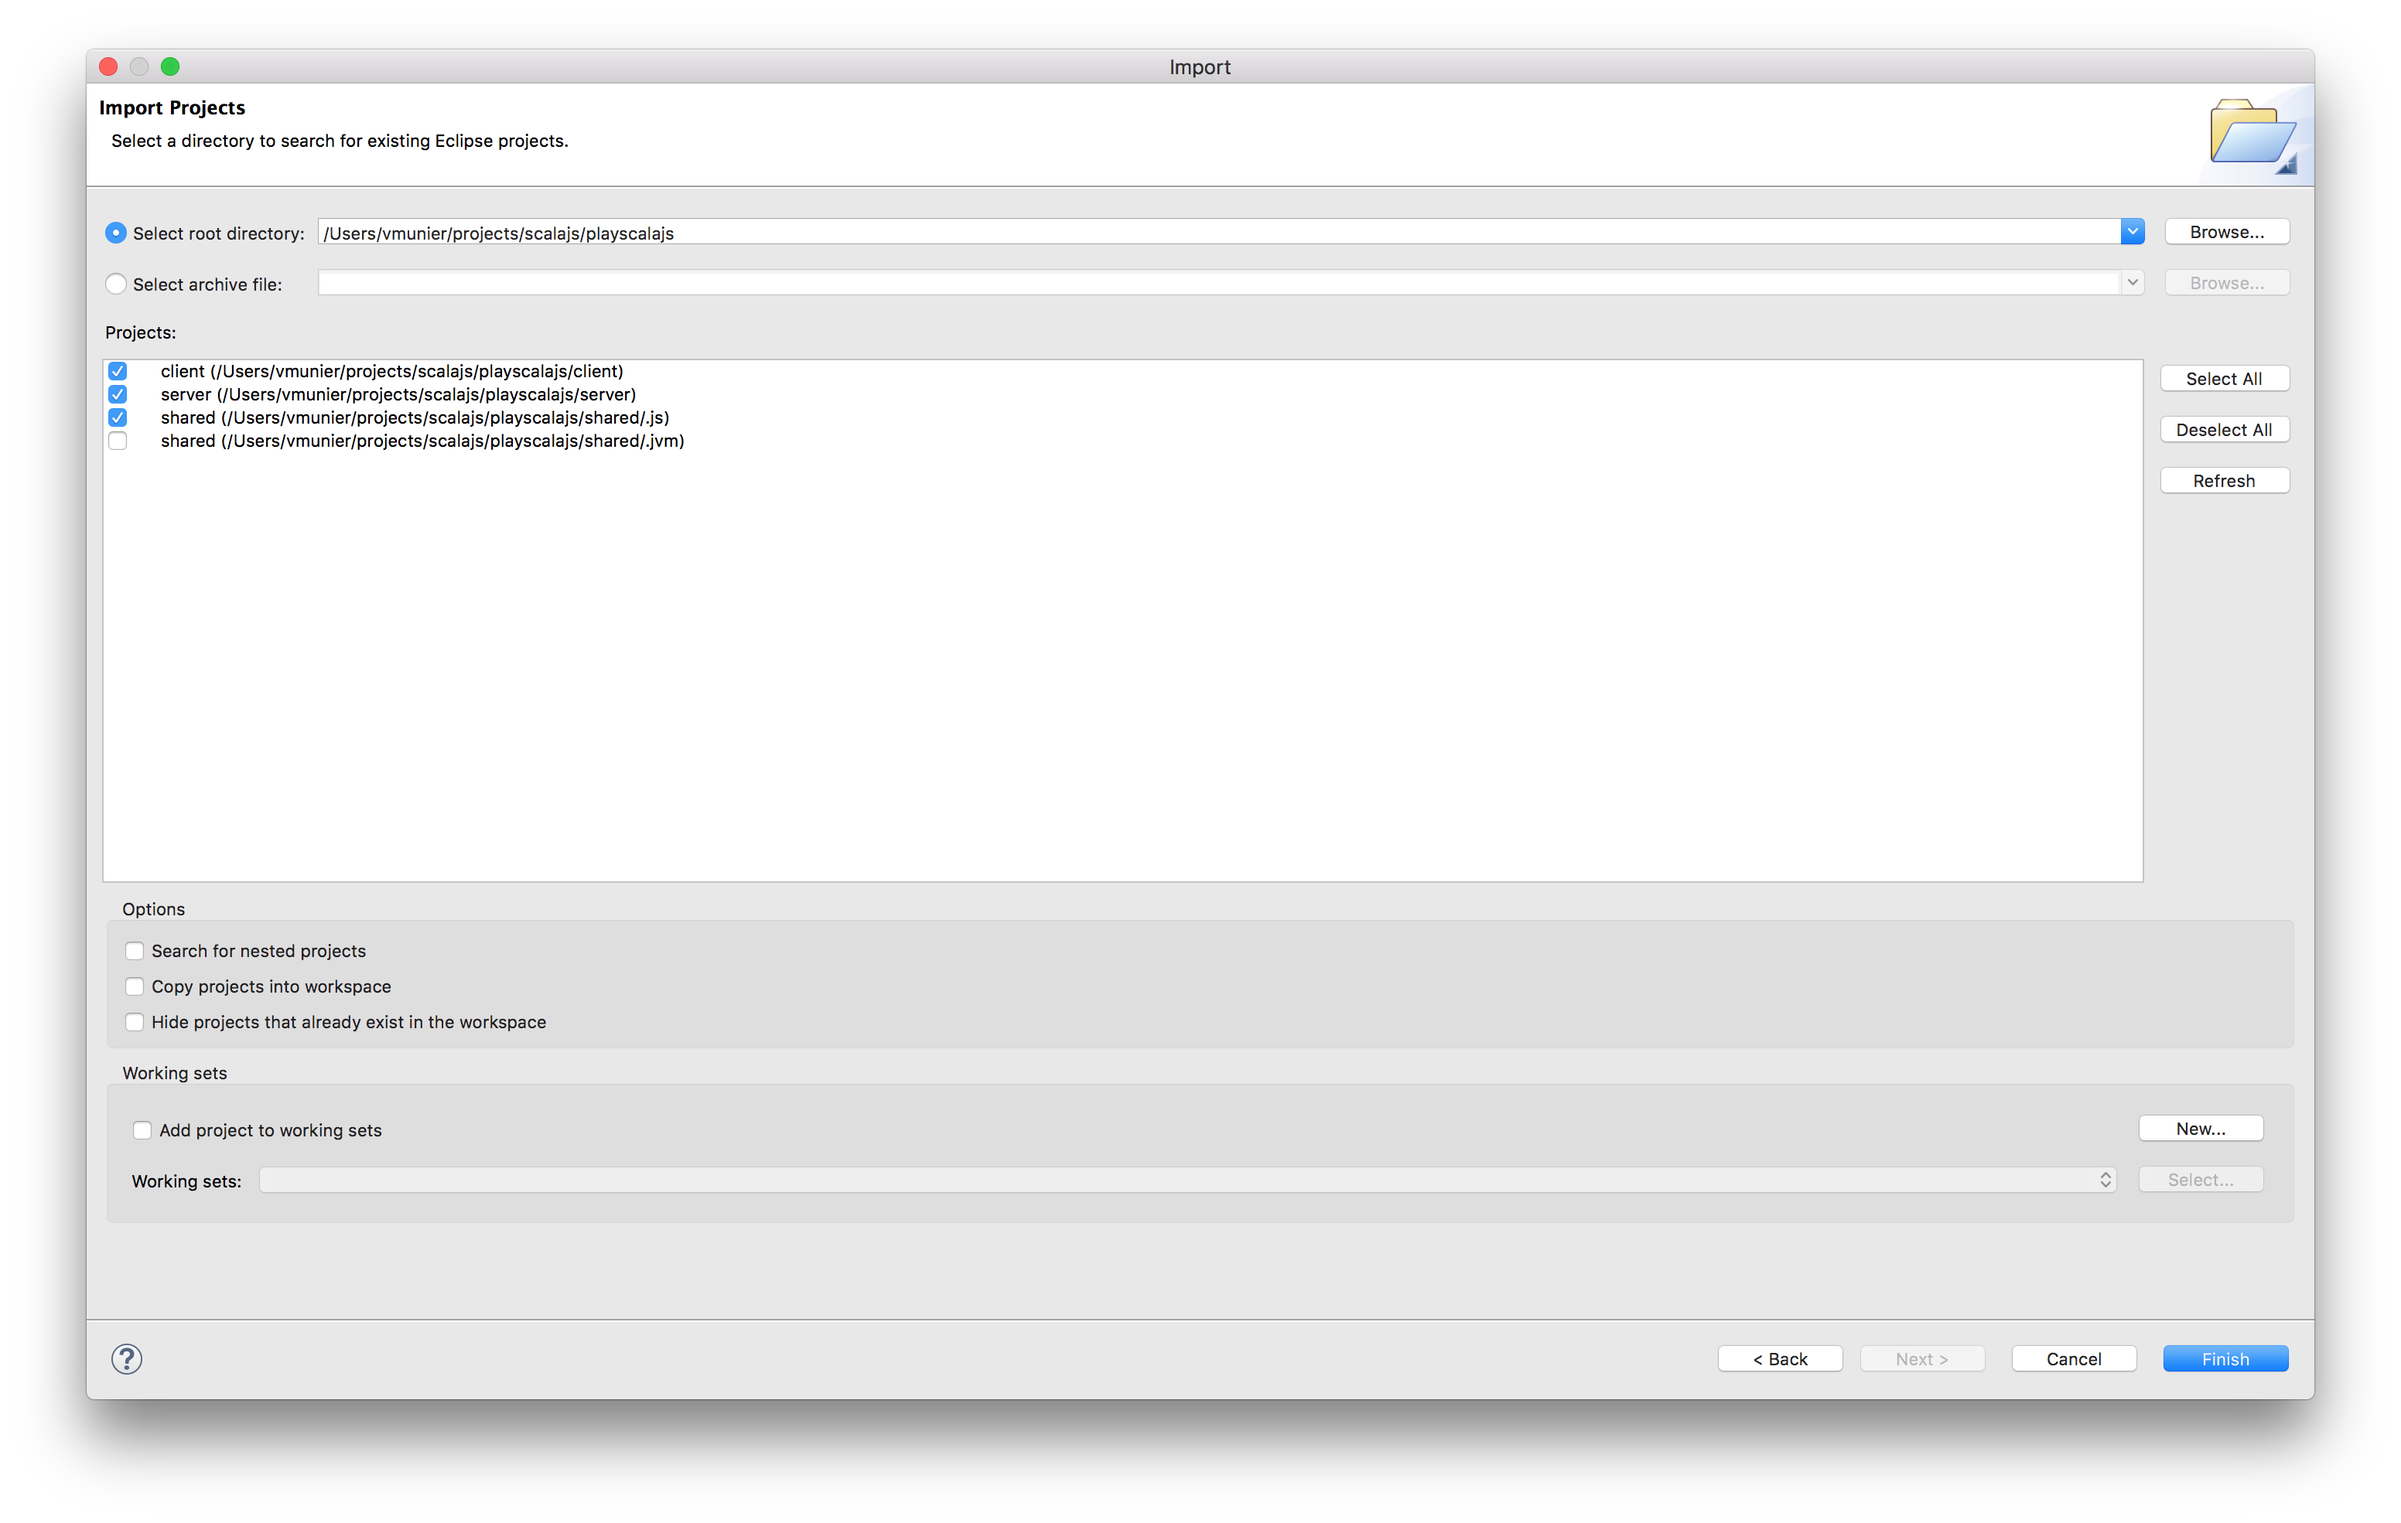
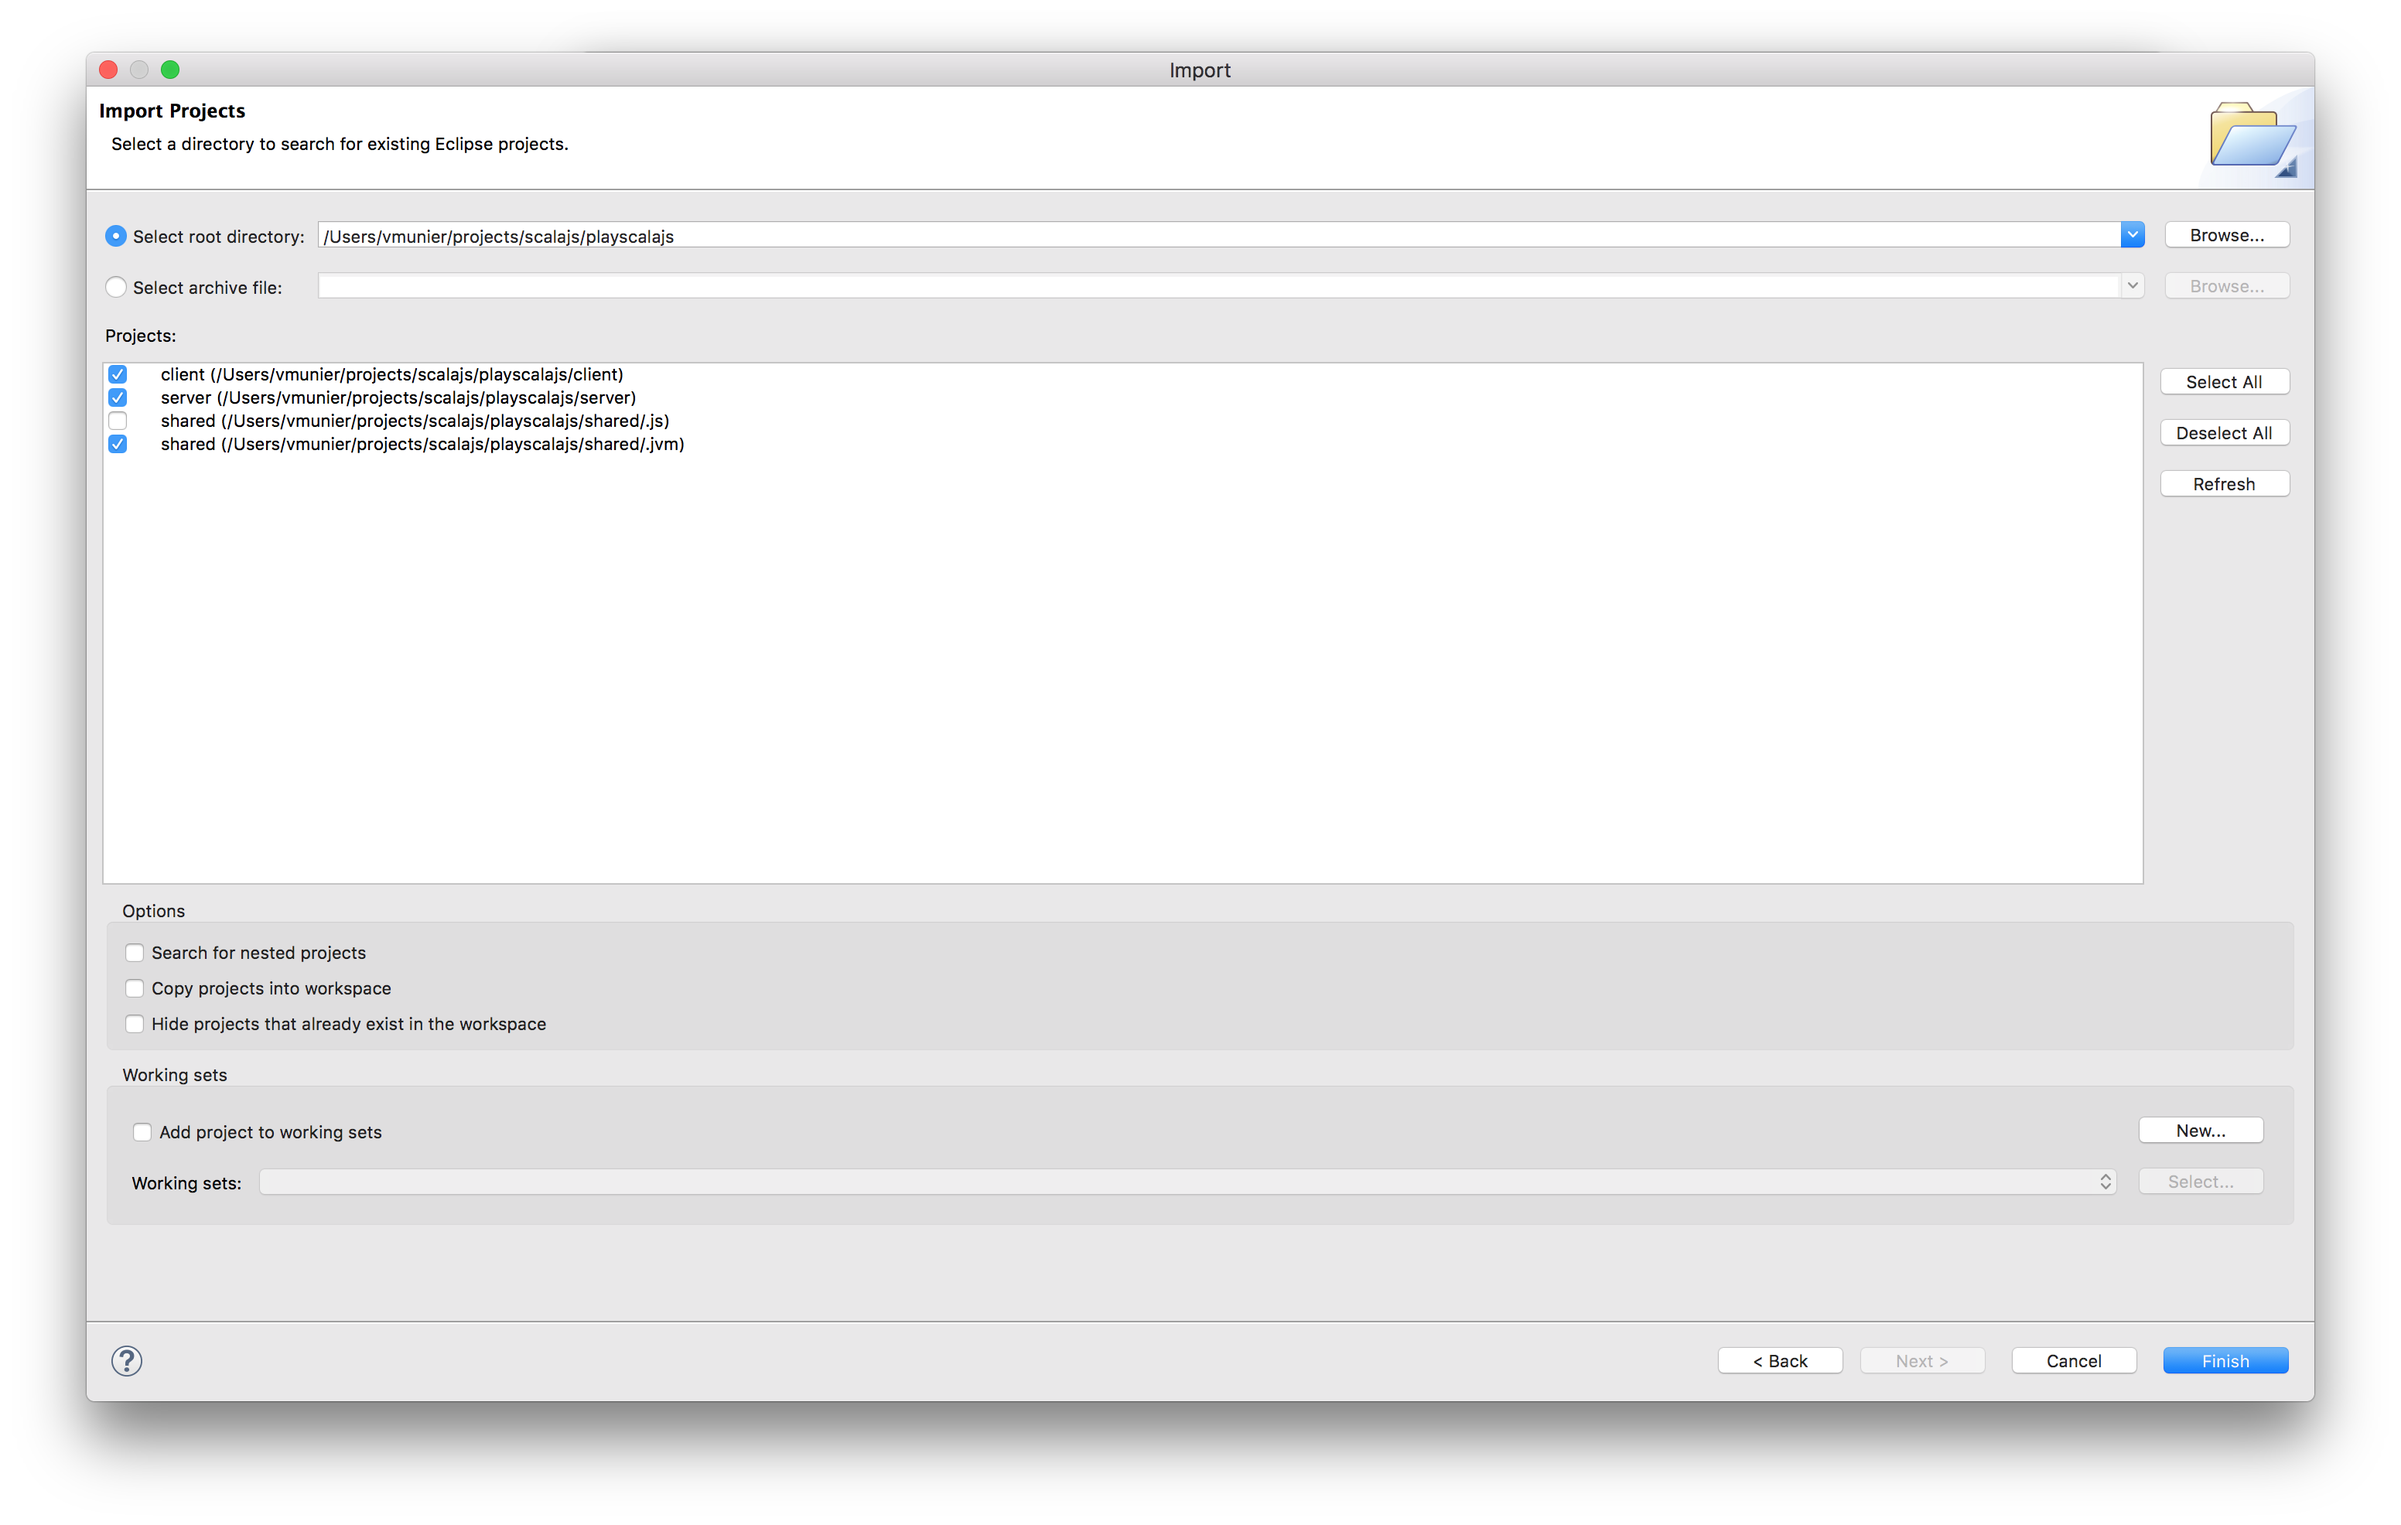
Update README.md - Fix the image for integration with Eclipse.

Changed region(s): [[0.0312, 0.031, 0.9688, 0.3406], [0.0625, 0.6193, 0.1562, 0.6812]]

diff --git a/README.md b/README.md
@@ -54,4 +54,4 @@ Make sure you use the IntelliJ Scala Plugin v1.3.3 or higher. There are known is
 ### Eclipse
 
 1. `$ sbt "eclipse with-source=true"`
-2. Inside Eclipse, `File/Import/General/Existing project...`, choose the root folder. Uncheck the last checkbox to only import client, server and one shared, click `Finish`. ![Alt text](screenshots/eclipse-play-scalajs.png?raw=true "eclipse play-scalajs screenshot")
+2. Inside Eclipse, `File/Import/General/Existing project...`, choose the root folder. Uncheck the third checkbox to only import client, server and shared/.jvm, click `Finish`. ![Alt text](screenshots/eclipse-play-scalajs.png?raw=true "eclipse play-scalajs screenshot")
